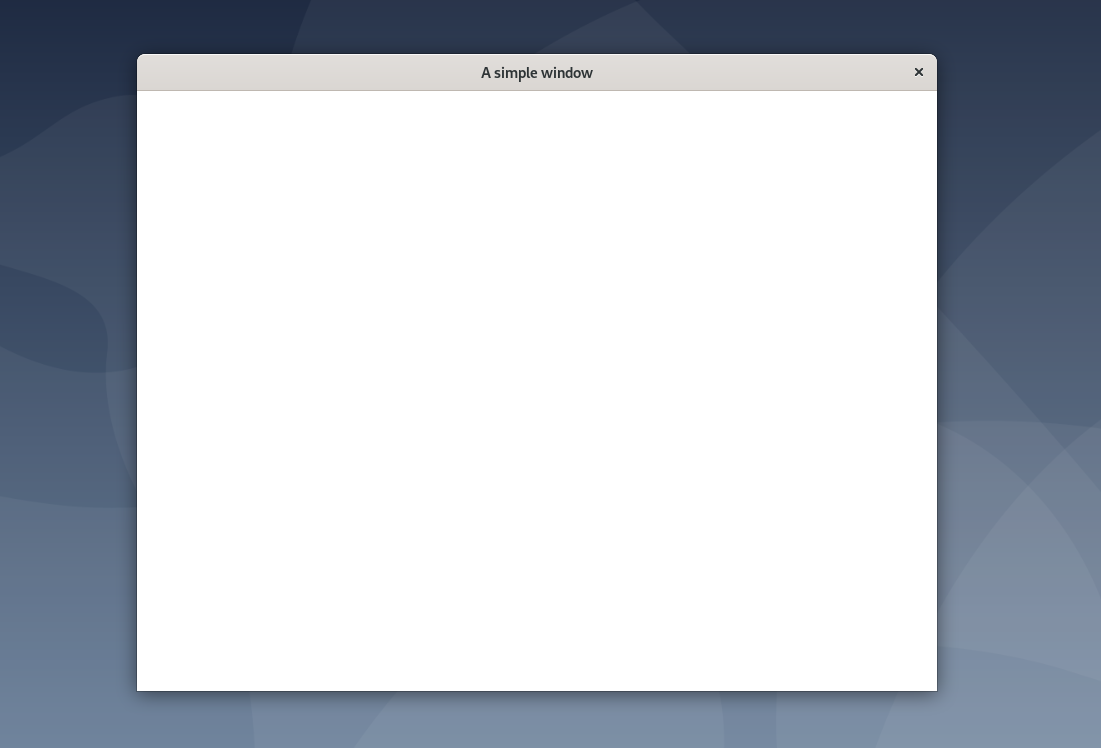
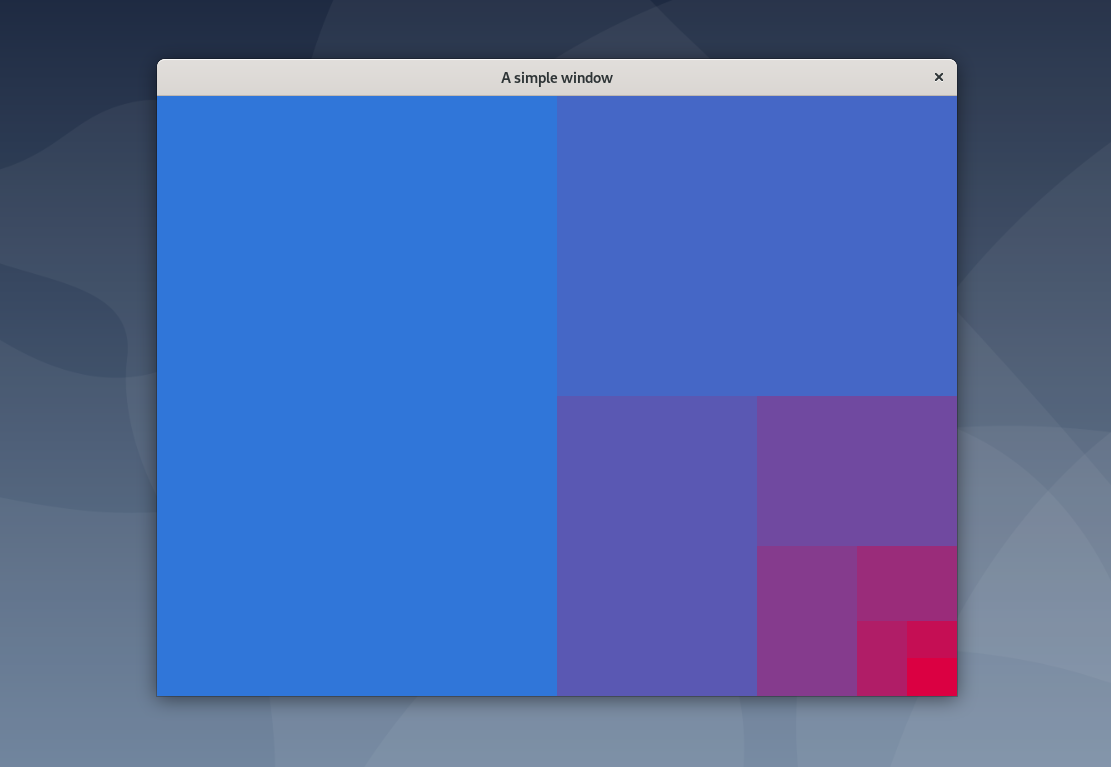
made simple example a bit less trivial

diff --git a/examples/simple/simple.cpp b/examples/simple/simple.cpp
@@ -1,16 +1,55 @@
 #include "ion.hpp"
 #include "SDL2/SDL.h"
+#include <iostream>
 
 // our render function will need acces to the app's renderer
 // there are more sophisticated ways of doing this, but for the sake of
 // simplicity we'll just use a global variable
+SDL_Window * WINDOW;
 SDL_Renderer * RENDERER;
 
-// draw a white screen
+// a fibonacci-like pattern
 void render()
 {
-    SDL_SetRenderDrawColor(RENDERER, 0xff, 0xff, 0xff, 0xff);
+    // the initial color
+    int r0 = 48, g0 = 118, b0 = 217;
+    // the final color
+    int r1 = 219, g1 = 0, b1 = 66;
+
+    // clear
+    SDL_SetRenderDrawColor(RENDERER, r1, g1, b1, 0xff);
     SDL_RenderClear(RENDERER);
+
+    // the dimensions of the rect to draw
+    SDL_Rect rect{0, 0, 0, 0};
+    SDL_GetWindowSize(WINDOW, &rect.w, &rect.h);
+    rect.w /= 2;
+
+    // draw the fibonacci-like patern
+    int n = 8;
+    for (int k = 0; k < n; k++) {
+
+        // calculate the intermediate color
+        float t = (float)k/n;
+        int r = (int)((1-t)*r0 + t*r1);
+        int g = (int)((1-t)*g0 + t*g1);
+        int b = (int)((1-t)*b0 + t*b1);
+
+        // draw the rect
+        SDL_SetRenderDrawColor(RENDERER, r, g, b, 0xff);
+        SDL_RenderFillRect(RENDERER, &rect);
+
+        // split in half horizontally when k is even
+        if (k % 2 == 0) {
+            rect.x += rect.w;
+            rect.h /= 2;
+        }
+        // split in half vertically when k is even
+        else {
+            rect.y += rect.h;
+            rect.w /= 2;
+        }
+    }
     SDL_RenderPresent(RENDERER);
 }
 
@@ -20,6 +59,7 @@ int main(int argc, char * argv[])
     ion::app simple{"A simple window", 800, 600};
 
     // load the renderer and render function
+    WINDOW = simple.window();
     RENDERER = simple.renderer();
     simple.connect_update_listener(&render); 
 
